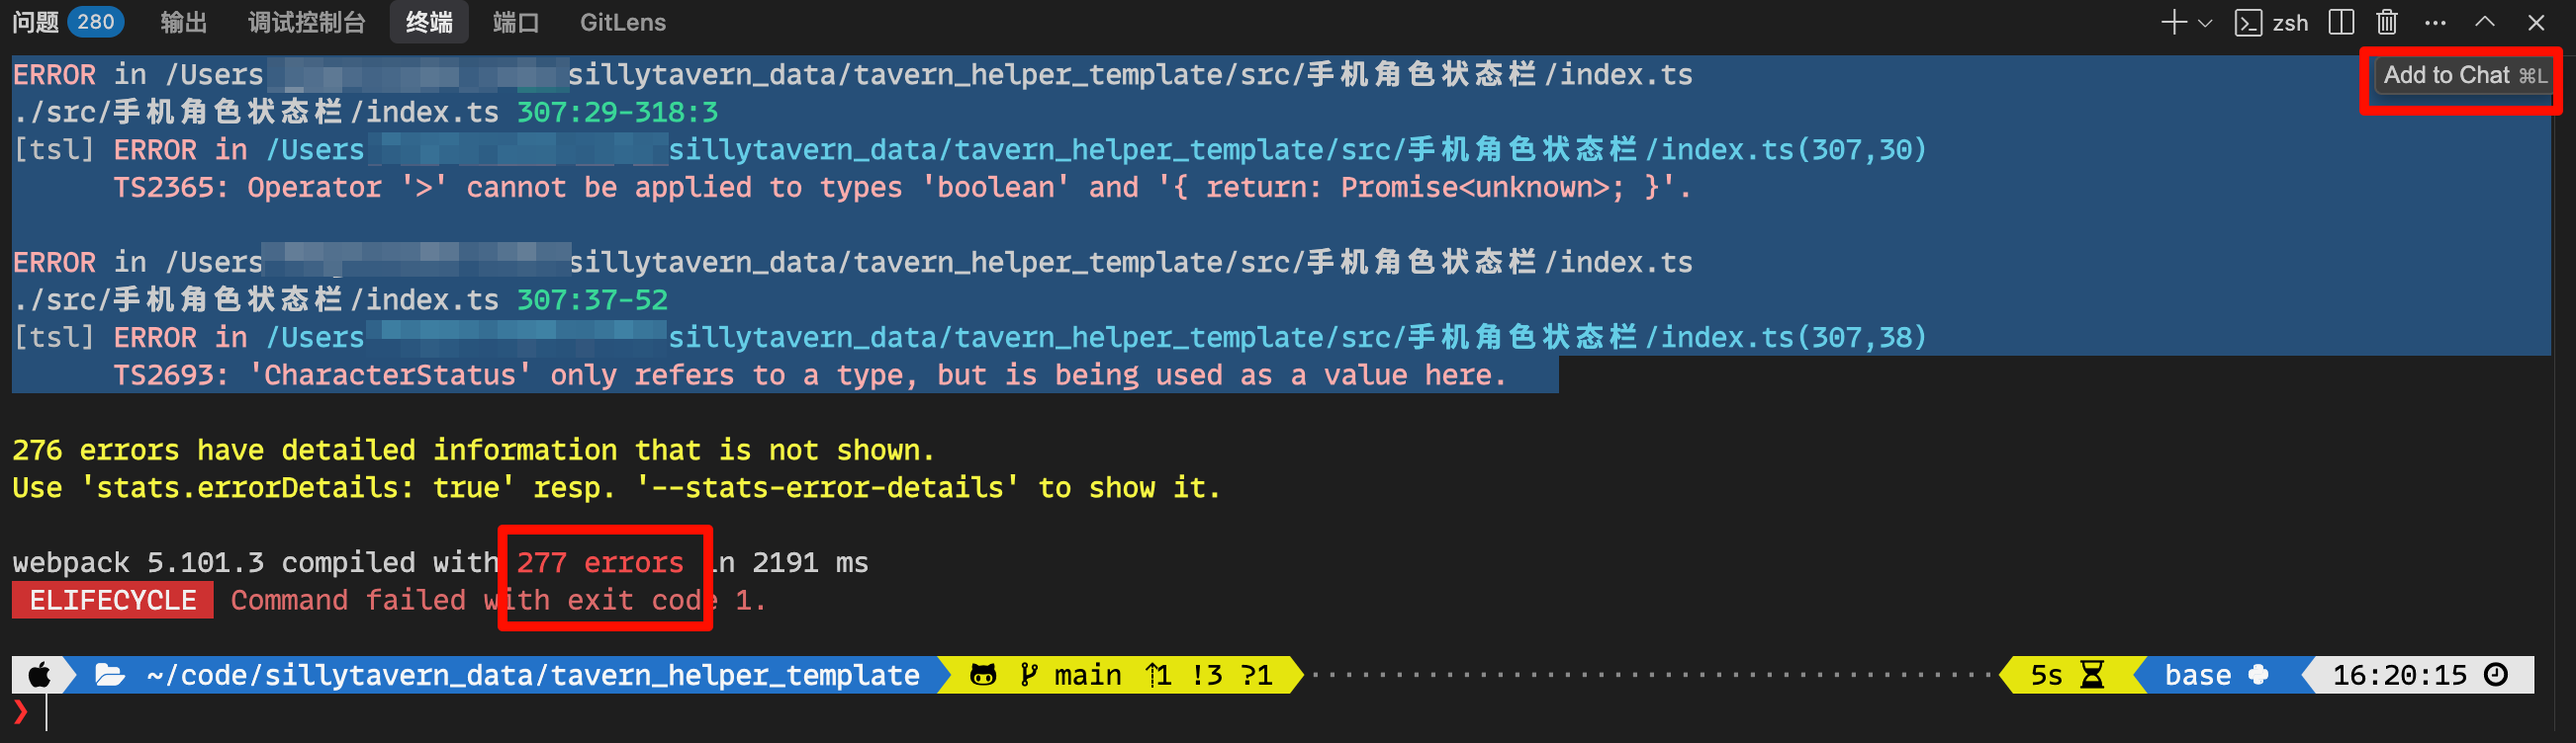
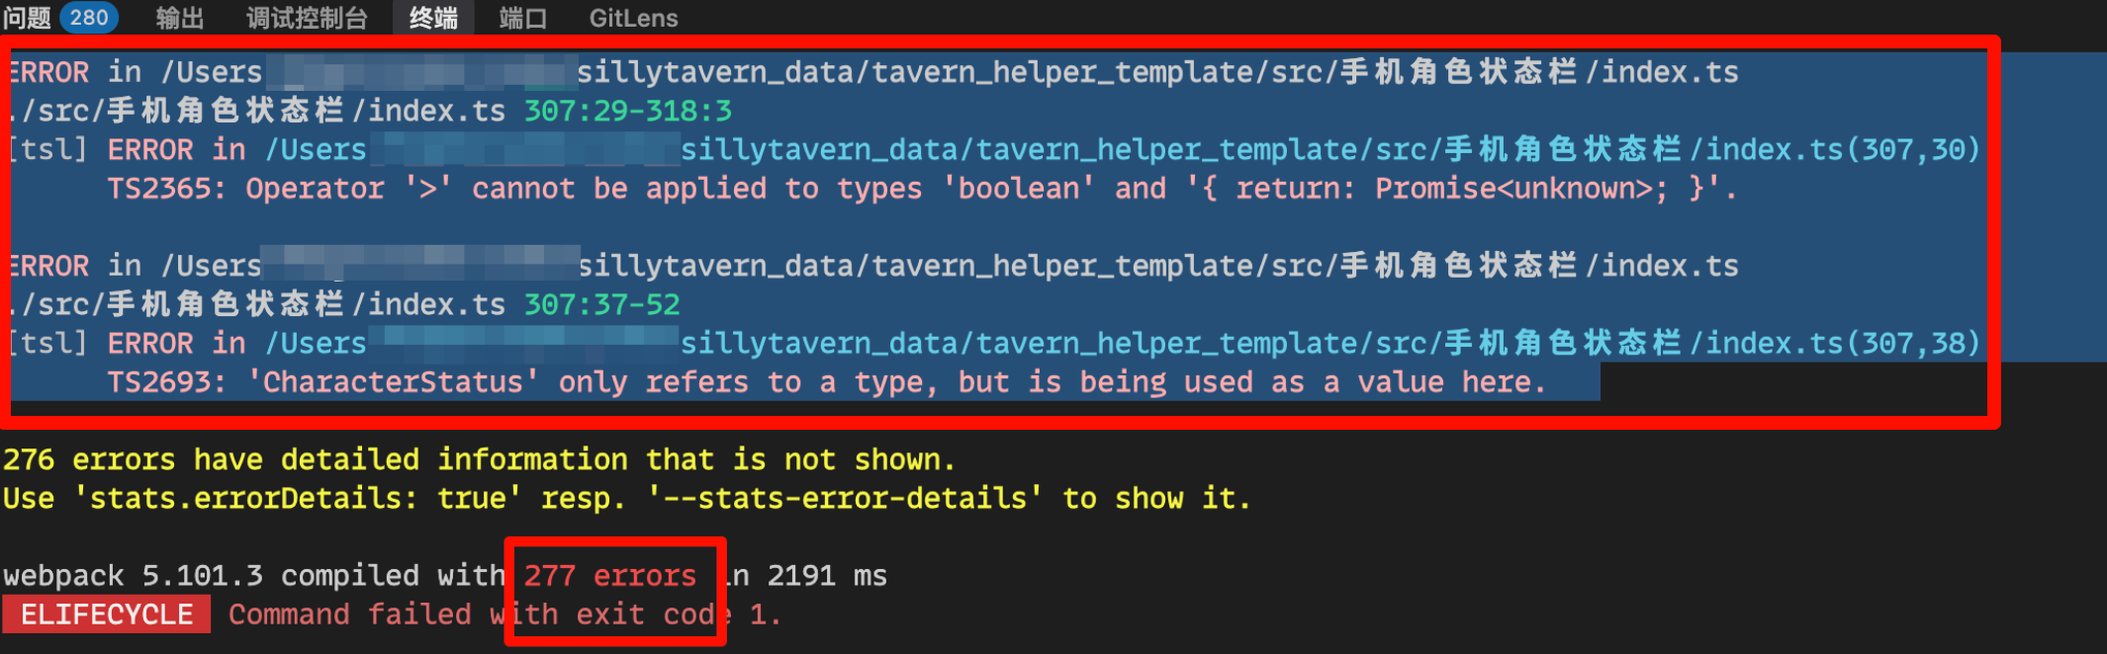
[青空莉/工具经验/实时编写前端界面或脚本] 优化阅读体验

diff --git a/青空莉/工具经验/实时编写前端界面或脚本/实际编写/index.md b/青空莉/工具经验/实时编写前端界面或脚本/实际编写/index.md
@@ -32,7 +32,7 @@
 
 编写完毕后, 我们在终端执行 `pnpm build` 来打包代码.
 
-如果该操作执行失败, 你可以让 AI 检查错误原因并修复它. 一般直接问 AI 即可, 也可以自己在终端中选中错误信息然后 {menuselection}`Add to Chat`.
+如果该操作执行失败, 你可以让 AI 检查错误原因并修复它. 一般直接问 AI 即可, 也可以自己在终端中复制错误信息然后发给 AI:
 
 :::{figure} 打包失败.png
 :::
@@ -42,8 +42,10 @@
 :::{figure} 打包成功.png
 :::
 
-你只需要考虑打包结果中的那个 .html 文件 (如果是脚本则是 .js 文件), 不必考虑另外的 .map 文件, 它包含了项目中所有文件的代码, 因此你可以将它的内容用代码块包裹 (在之前的{doc}`/青空莉/工具经验/实时编写前端界面或脚本/阅读示例/index`中有解释) 然后复制到酒馆正则中的{menuselection}`替换为`部分 (如果是脚本则将它的内容复制到酒馆助手脚本库脚本中的{menuselection}`脚本内容`部分). \
-如果这个酒馆正则被应用, 酒馆助手就会自动渲染出前端界面:
+你只需要考虑打包结果中的那个 .html 文件, 不必考虑另外的 .map 文件, 它包含了项目中所有文件的代码, 因此你可以将它的内容用代码块包裹 (在之前的{doc}`/青空莉/工具经验/实时编写前端界面或脚本/阅读示例/index`中有解释) 然后复制到酒馆正则中的{menuselection}`替换为`部分; \
+如果是脚本, 则应使用打包结果中的那个 .js 文件, 将它的内容复制到酒馆助手脚本库脚本中的{menuselection}`脚本内容`部分.
+
+这样一来, 如果酒馆楼层中存在能被这个酒馆正则匹配的文本, 酒馆正则就会在楼层中替换出代码块, 而酒馆助手会将代码块渲染成前端界面:
 
 :::{figure} 渲染结果.png
 :::
